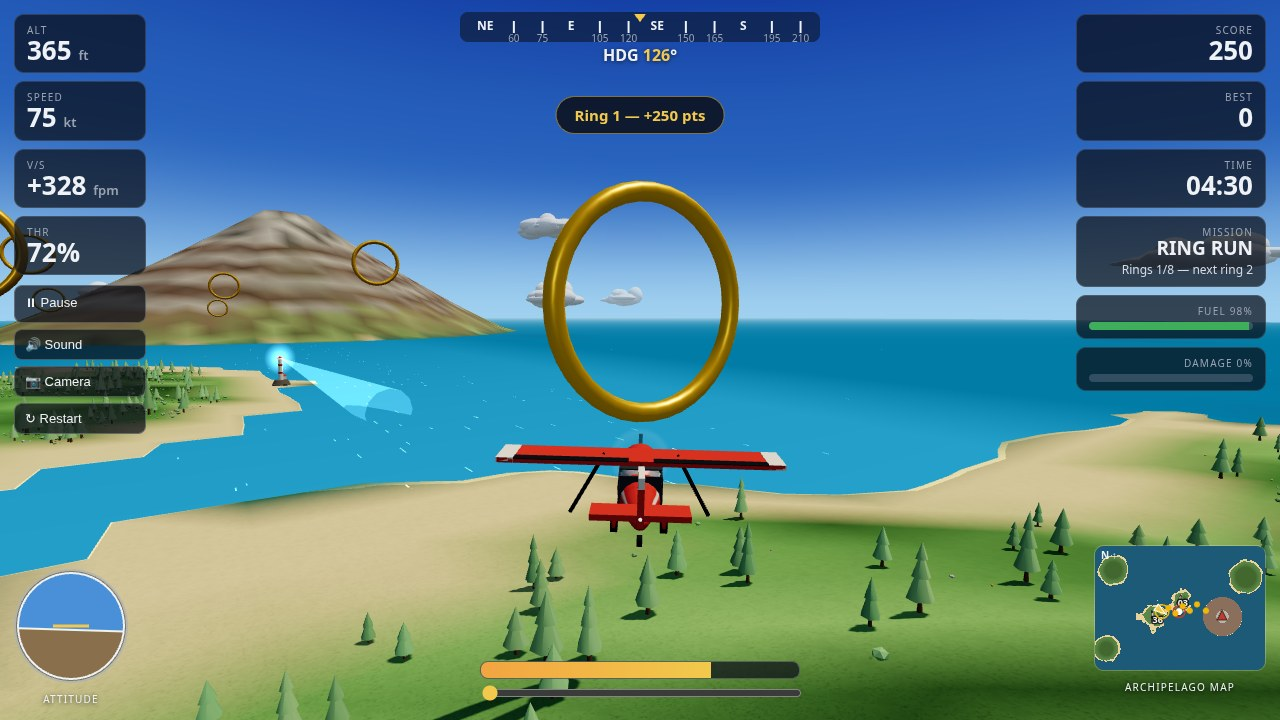
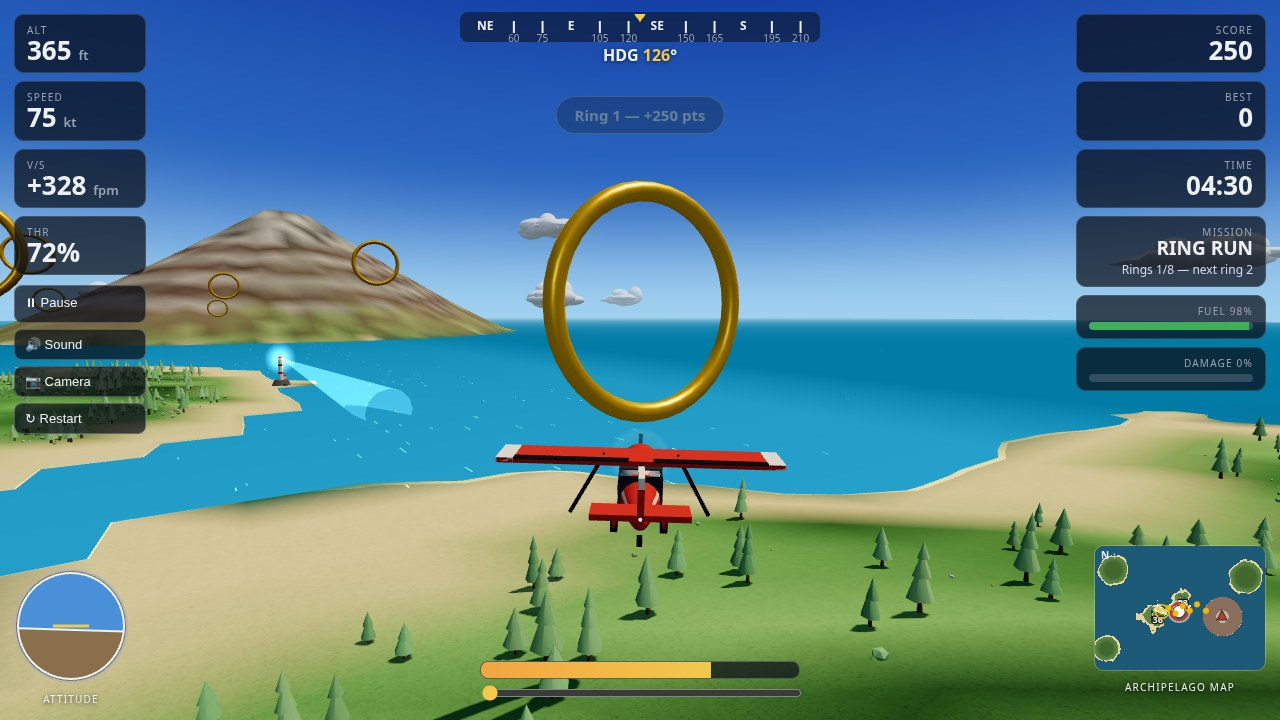
Stage H: cockpit pillars/headliner/threshold, cover reframe, minimap marker, leaning trees
- A-pillars slimmer (0.032), less lean, wider, warm mid-grey: no more black bars
- Glareshield lip 0.77 -> 0.72 (compass/shadow ride down): threshold visible on short final
- Cockpit camera fixed 3 deg down-look: bottom gauge row fully readable again
- Headliner shorter (depth 0.7): black band over windshield ~20% -> ~6%
- Cover staging 80 m north + flight 6 s -> 4 s: third ring whole in frame
- Minimap lighthouse marker bigger (6 px dot, 8.5 px ring, white halo)
- Trees lean (golden-angle offsets), giants get a fourth crown cone
- main.ts: Stage H notes + hand-in guard for the cockpit pitch offset

sim-h 35/35 PASS; driver-h ALL PASS, 0 console/page errors; main.ts 2x byte-identical

diff --git a/game/src/cockpit.js b/game/src/cockpit.js
@@ -47,6 +47,13 @@ export function buildCockpit(planeGroup) {
 
   const interior = new THREE.MeshLambertMaterial({ color: 0x3a3f45, side: THREE.DoubleSide });
   const darkLeather = new THREE.MeshLambertMaterial({ color: 0x2a2320, side: THREE.DoubleSide });
+  // Stage H: the A-pillars and the top bar are NOT black bars any more. Stage G
+  // slimmed them (0.045 m) and they still read as thick black slabs in the
+  // cockpit shots — near-black leather against a bright sky. A warm mid-grey
+  // brown reads as a frame member, not a black bar; the pillars are also
+  // slimmer (0.032), less raked and set wider, so more world shows between
+  // them and the windshield.
+  const pillarMat = new THREE.MeshLambertMaterial({ color: 0x7a6f60, side: THREE.DoubleSide });
   const floorMat = new THREE.MeshLambertMaterial({ color: 0x24262a, side: THREE.DoubleSide });
   const metal = new THREE.MeshPhongMaterial({ color: 0x8a8f96, shininess: 60 });
   const black = new THREE.MeshLambertMaterial({ color: 0x1a1c20 });
@@ -71,13 +78,18 @@ export function buildCockpit(planeGroup) {
   group.add(panelBack);
 
   // --- Glareshield, its shadow, and the magnetic compass on top. ------------
-  // Stage G, second pass: the glareshield sits LOWER (y 0.77, was 0.80) — with
-  // the eye raised to 0.85 (main.js), the sightline over its lip now reaches
-  // ~3.5° below the horizon, so the runway threshold is visible on final
-  // approach instead of hiding behind the panel. It still sits just above the
-  // panel top (0.745), so no gauge is covered.
+  // Stage H: the lip comes DOWN 0.77 -> 0.72. Stage G's note said the
+  // threshold was visible at 0.77, but the short-final shot proved otherwise:
+  // the sightline over the lip only reached ~3.5° below the horizon and the
+  // threshold (about 4-5° down at 400 m) still hid behind the lip. At 0.72
+  // the sightline reaches ~6° below the horizon, so the threshold and the
+  // "36" numbers read on short final. The eye stays at 0.85 — raising it
+  // further would push the panel down in the frame and clip the bottom
+  // gauge row, which the brief forbids. The six-pack top (y ~0.60) still
+  // clears the lowered lip: the sightline to it passes a few millimetres
+  // under the lip's front-bottom edge, so no gauge is lost to the shield.
   const glareshield = new THREE.Mesh(new THREE.BoxGeometry(1.7, 0.07, 0.38), darkLeather);
-  glareshield.position.set(0, 0.77, -0.60);
+  glareshield.position.set(0, 0.72, -0.60);
   glareshield.rotation.x = 0.15;
   group.add(glareshield);
   // The glareshield's own shadow: a translucent dark plane hanging below its lip
@@ -86,12 +98,12 @@ export function buildCockpit(planeGroup) {
   // a grey wash over the compass tape. Now it is a tight (0.30 m) band at 0.32:
   // a crisp line of shade with a visible edge, the way a real glareshield
   // throws one at noon — and it stops above the six-pack, so no gauge is ever
-  // shaded.
+  // shaded. Stage H: the plane rides down with the lip, 0.61 -> 0.58.
   const glareshadow = new THREE.Mesh(
     new THREE.PlaneGeometry(1.5, 0.30),
     new THREE.MeshBasicMaterial({ color: 0x000000, transparent: true, opacity: 0.32, depthWrite: false }),
   );
-  glareshadow.position.set(0, 0.61, -0.70);
+  glareshadow.position.set(0, 0.58, -0.70);
   glareshadow.rotation.x = 0.35;
   group.add(glareshadow);
   const compassCanvas = document.createElement('canvas');
@@ -104,7 +116,7 @@ export function buildCockpit(planeGroup) {
     new THREE.PlaneGeometry(0.30, 0.056),
     new THREE.MeshBasicMaterial({ map: compassTex }),
   );
-  compass.position.set(0, 0.83, -0.62);
+  compass.position.set(0, 0.78, -0.62); // Stage H: rides down with the lowered lip (was 0.83).
   compass.rotation.x = -0.5;
   group.add(compass);
 
@@ -116,14 +128,19 @@ export function buildCockpit(planeGroup) {
   // (±0.76, was ±0.72) with less lean — the Stage F pillars were still thick
   // black bars eating the corners of the windshield. The world through the
   // glass opens up a little more on both sides.
+  // Stage H: still not enough — the Stage G cockpit shots show two thick
+  // BLACK diagonal bars. Slimmer again (0.032), less lean (0.12), wider
+  // (±0.80), and in the warm mid-grey pillarMat instead of near-black
+  // leather: a frame member now, not a black bar. The top bar follows the
+  // same material so the windshield frame reads as one piece.
   for (const side of [-1, 1]) {
-    const pillar = new THREE.Mesh(new THREE.BoxGeometry(0.045, 1.15, 0.045), darkLeather);
-    pillar.position.set(side * 0.76, 0.68, -0.88);
-    pillar.rotation.z = -side * 0.18;
+    const pillar = new THREE.Mesh(new THREE.BoxGeometry(0.032, 1.15, 0.032), pillarMat);
+    pillar.position.set(side * 0.80, 0.68, -0.88);
+    pillar.rotation.z = -side * 0.12;
     pillar.rotation.x = 0.15;
     group.add(pillar);
   }
-  const topBar = new THREE.Mesh(new THREE.BoxGeometry(1.5, 0.06, 0.06), darkLeather);
+  const topBar = new THREE.Mesh(new THREE.BoxGeometry(1.5, 0.06, 0.06), pillarMat);
   topBar.position.set(0, 1.22, -0.92);
   group.add(topBar);
 
@@ -133,13 +150,20 @@ export function buildCockpit(planeGroup) {
   //  over the pilot's eyes and filled the top third of the windshield with a
   //  black slab; raised, it is only the roofline, and the sky opens up above
   //  the wing.
+  // Stage H: shorter STILL (depth 0.7, centre z 0.30 — its front edge moves
+  // from z -0.35 to z -0.05). The Stage G cockpit shots still show a black
+  // band over the top ~20% of the frame: that is the headliner's underside,
+  // unlit, and its front edge sits only ~18° above the eye's sightline. At
+  // z -0.05 the edge is ~27° up, so the black band shrinks to ~6% of the
+  // frame and the sky opens up between the top bar and the roof. The roof
+  // above and behind the pilot stays covered (z -0.05..0.65).
   for (const side of [-1, 1]) {
     const wall = new THREE.Mesh(new THREE.BoxGeometry(0.05, 1.0, 1.7), interior);
     wall.position.set(side * 0.86, 0.38, 0.05);
     group.add(wall);
   }
-  const headliner = new THREE.Mesh(new THREE.BoxGeometry(1.72, 0.05, 1.0), interior);
-  headliner.position.set(0, 1.16, 0.15);
+  const headliner = new THREE.Mesh(new THREE.BoxGeometry(1.72, 0.05, 0.7), interior);
+  headliner.position.set(0, 1.16, 0.30);
   group.add(headliner);
   const floor = new THREE.Mesh(new THREE.BoxGeometry(1.72, 0.05, 1.9), floorMat);
   floor.position.set(0, -0.52, 0.05);

diff --git a/game/src/terrain.js b/game/src/terrain.js
@@ -634,18 +634,23 @@ function buildTrees(scene, rng) {
   const coneGeo = new THREE.ConeGeometry(3.4, 9, 6);
   const cone2Geo = new THREE.ConeGeometry(2.3, 6, 6);
   const cone3Geo = new THREE.ConeGeometry(1.5, 4, 6);
+  // Stage H: a fourth, small top cone for the old-growth giants only — the
+  // layered crown reads taller and less like a stacked Christmas tree.
+  const cone4Geo = new THREE.ConeGeometry(1.0, 3.5, 6);
   const trunkMat = new THREE.MeshLambertMaterial({ color: 0x6b4a2f });
   const leafMat = new THREE.MeshLambertMaterial({ color: 0xffffff });
   const trunks = new THREE.InstancedMesh(trunkGeo, trunkMat, spots.length);
   const cones = new THREE.InstancedMesh(coneGeo, leafMat, spots.length);
   const cones2 = new THREE.InstancedMesh(cone2Geo, leafMat, spots.length);
   const cones3 = new THREE.InstancedMesh(cone3Geo, leafMat, spots.length);
+  const cones4 = new THREE.InstancedMesh(cone4Geo, leafMat, spots.length);
   // Stage G: every tree casts a real shadow now (sun + shadow map), so a forest
   // reads as a forest from the air instead of a flat green carpet.
   trunks.castShadow = true;
   cones.castShadow = true;
   cones2.castShadow = true;
   cones3.castShadow = true;
+  cones4.castShadow = true;
   const m = new THREE.Matrix4();
   const q = new THREE.Quaternion();
   const s = new THREE.Vector3();
@@ -664,17 +669,26 @@ function buildTrees(scene, rng) {
     p.set(x, h + 1.5 * sy, z);
     m.compose(p, q, s);
     trunks.setMatrixAt(i, m);
+    // Stage H: the crown LEANS — each tree's upper cones are offset sideways
+    // in one fixed direction (golden-angle from the tree index, so no rng is
+    // consumed and the Stage G forest keeps its exact spots), growing with
+    // height: the stack stops being a perfectly vertical Christmas tree and
+    // reads as a pine that grew against the wind. The base cone stays on the
+    // trunk; the lean is only in the crown.
+    const leanA = (i * 2.39996) % (Math.PI * 2);
+    const leanX = Math.cos(leanA);
+    const leanZ = Math.sin(leanA);
     p.set(x, h + (3 + 4.5) * sy, z);
     m.compose(p, q, s);
     cones.setMatrixAt(i, m);
-    p.set(x, h + (3 + 8) * sy, z);
+    p.set(x + leanX * 0.4 * sx, h + (3 + 8) * sy, z + leanZ * 0.4 * sx);
     m.compose(p, q, s);
     cones2.setMatrixAt(i, m);
     // A third, smaller top cone on ~60% of trees: a layered crown, not a smooth
     // two-cone Christmas tree. Giants always get one — they are the layered ones.
     const hasTop = giant || rng.next() < 0.6;
     if (hasTop) {
-      p.set(x, h + (3 + 11) * sy, z);
+      p.set(x + leanX * 0.8 * sx, h + (3 + 11) * sy, z + leanZ * 0.8 * sx);
       m.compose(p, q, s);
       cones3.setMatrixAt(i, m);
     } else {
@@ -682,6 +696,20 @@ function buildTrees(scene, rng) {
       p.set(x, h, z);
       m.compose(p, q, s);
       cones3.setMatrixAt(i, m);
+    }
+    // Stage H: giants get a fourth, smallest top cone, leaning furthest — the
+    // old-growth crowns are the layered ones. Other trees hide theirs at
+    // zero scale, the same pattern as cones3.
+    if (giant) {
+      p.set(x + leanX * 1.1 * sx, h + (3 + 13.5) * sy, z + leanZ * 1.1 * sx);
+      s.set(sx, sy, sz);
+      m.compose(p, q, s);
+      cones4.setMatrixAt(i, m);
+    } else {
+      s.set(0, 0, 0);
+      p.set(x, h, z);
+      m.compose(p, q, s);
+      cones4.setMatrixAt(i, m);
     }
     // Stage F, second pass — the tree/ground mismatch: pines were HSL(0.33–0.37,
     // 0.55, 0.28–0.40), a saturated pure green, while the ground is a muted
@@ -695,18 +723,22 @@ function buildTrees(scene, rng) {
     cones.setColorAt(i, col);
     cones2.setColorAt(i, col);
     cones3.setColorAt(i, col);
+    cones4.setColorAt(i, col);
   });
   trunks.instanceMatrix.needsUpdate = true;
   cones.instanceMatrix.needsUpdate = true;
   cones2.instanceMatrix.needsUpdate = true;
   cones3.instanceMatrix.needsUpdate = true;
+  cones4.instanceMatrix.needsUpdate = true;
   if (cones.instanceColor) cones.instanceColor.needsUpdate = true;
   if (cones2.instanceColor) cones2.instanceColor.needsUpdate = true;
   if (cones3.instanceColor) cones3.instanceColor.needsUpdate = true;
+  if (cones4.instanceColor) cones4.instanceColor.needsUpdate = true;
   scene.add(trunks);
   scene.add(cones);
   scene.add(cones2);
   scene.add(cones3);
+  scene.add(cones4);
 }
 
 /** Near-camera ground detail: bushes, rocks and flower dots on the two low islands,
@@ -1004,14 +1036,15 @@ function buildLighthouse(scene) {
  *  meant to show. */
 function blocksHero(cx, cy, cz) {
   // Cover cone: from the far camera behind the staged cover plane — the plane
-  // starts at (1000, 145, -260) heading east, the far camera sits 36 m behind
-  // it at ~(964, 152, -260) — axis east. The volcano's angular box from
+  // starts at (1000, 145, -180) heading east, the far camera sits 36 m behind
+  // it at ~(964, 152, -180) — axis east. The volcano's angular box from
   // there is roughly ha -15°..+22°, va -3°..+9°; the margins allow for cloud size.
   // (Stage G moved the cover staging 400 m east so the coastal lighthouse reads
-  // bigger; the cone origin moved with it.)
+  // bigger; the cone origin moved with it. Stage H moves the staging 80 m
+  // north so the third ring is whole in frame; the cone origin moves again.)
   const dx = cx - 964;
   const dy = cy - 152;
-  const dz = cz + 260;
+  const dz = cz + 180;
   if (dx > 300 && dx < 3600) {
     const ha = Math.atan2(dz, dx);
     const va = Math.atan2(dy, dx);
@@ -1022,11 +1055,11 @@ function blocksHero(cx, cy, cz) {
   // would sit on the tower in the frame.
   const ldx = cx - 964;
   const ldy = cy - 152;
-  const ldz = cz + 260;
+  const ldz = cz + 180;
   const lvLen = Math.sqrt(ldx * ldx + ldy * ldy + ldz * ldz);
-  const laLen = Math.sqrt(536 * 536 + 111 * 111 + 10 * 10);
+  const laLen = Math.sqrt(536 * 536 + 111 * 111 + 70 * 70);
   if (lvLen > 300 && lvLen < 1500) {
-    const cos = (ldx * 536 + ldy * -111 + ldz * 10) / (lvLen * laLen);
+    const cos = (ldx * 536 + ldy * -111 + ldz * -70) / (lvLen * laLen);
     if (cos > 0.997) return true;
   }
   // Rings-shot cone: from (428, 118, -343) toward the lighthouse lamp (1500, 41, -250).

diff --git a/main.ts b/main.ts
@@ -91,6 +91,32 @@
 // lighthouse marker is a ringed dot, and the volcano's ash cap and crater get
 // real rock texture. Nothing else changes: midday, coastal lighthouse, live
 // gauges, menus, missions, minimap, "36"/"03", river, chase view.
+// Stage H (2026-11-27, user: "Perbaiki lagi" — the Stage G leftovers, verified
+// from the screenshots, not from memory): (1) the A-pillars STILL read as two
+// thick black diagonal bars — slimmer again (0.032), less lean (0.12), wider
+// (±0.80) and in a warm mid-grey (0x7a6f60) instead of near-black leather, so
+// they read as a frame member; the top bar follows the same material. (2) The
+// runway threshold on short final: Stage G's note claimed it was visible at
+// a 0.77 lip, but the approach shot proved it wrong — the threshold still hid
+// behind the lip. The lip comes down to 0.72 (compass 0.78, shadow plane
+// 0.58 ride with it), so the sightline reaches ~6° below the horizon; the
+// eye stays at 0.85 and the six-pack still clears the lip. (3) The bottom
+// gauge row was already half-cut by the frame edge in Stage G (the engine
+// dials' bottoms sit ~33° below the camera axis against a 31° half-field of
+// view) — the cockpit camera now looks a fixed 3° down from the airframe
+// axis, the pilot's natural glance at the panel, which brings the full
+// engine row into frame without moving any geometry. (4) The headliner is
+// shorter still (depth 0.7, front edge z -0.05): the black band over the top
+// of the windshield shrinks from ~20% of the frame to ~6%. (5) The cover
+// staging moves 80 m north (1000, 145, -180) so the third ring, which Stage G
+// cut at the frame's right edge, is whole in frame; the volcano stays right
+// of centre and the lighthouse reads bigger (~340 m away). (6) The minimap
+// lighthouse marker is bigger again (6 px dot, 8.5 px red ring, white halo)
+// — the Stage G marker still vanished in the zoom. (7) Trees lean: the crown
+// cones are offset sideways in one fixed direction per tree (golden-angle
+// from the index, no rng consumed, so the Stage G forest keeps its spots),
+// and the giants get a fourth top cone. Same midday palette, same sharp
+// shadows, same chase camera, same missions and scores.
 // This program copies game/ and screenshots/ from beside this file to /output and writes
 // /output/dossier.json, the summary the judge reads, with the vendored make.fun library.
 // The copy is byte for byte the same on every run: no timestamps, no randomness here.
@@ -133,6 +159,16 @@ for (const id of MENU_OVERLAYS) {
   if (!html.includes(`id="${id}"`)) throw new Error(`main.ts: menu overlay #${id} missing from game/index.html`);
 }
 console.log(`menus: ${MENU_OVERLAYS.join(', ')} present in game/index.html`);
+
+// Stage H: the cockpit view is the entry's most fragile piece — the threshold
+// and the bottom gauge row both hid behind the panel or the frame edge in
+// earlier stages. Refuse a hand-in whose cockpit camera lost its fixed
+// down-look: without the pitch offset the bottom gauge row is half-cut again.
+const mainJs = readFileSync(join(gameDir, 'src', 'main.js'), 'utf8');
+if (!mainJs.includes('setFromAxisAngle(new THREE.Vector3(1, 0, 0)')) {
+  throw new Error('main.ts: cockpit camera pitch offset missing from game/src/main.js');
+}
+console.log('cockpit: pitch offset present in game/src/main.js');
 
 mkdirSync(join(out, 'screenshots'), { recursive: true });
 const shotFiles = existsSync(shotsDir)

diff --git a/game/src/main.js b/game/src/main.js
@@ -342,13 +342,26 @@ function updateCamera(dt) {
     // pointed UP (+2°) and the whole runway hid behind the panel on final —
     // the approach shot showed sky and a sliver of horizon, no runway. At
     // 0.85 the eye is 8 cm above the lowered lip (0.77) and the sightline
-    // reaches ~3.5° below the horizon: the threshold is visible. The wing
-    // (y 1.36) now grazes the top edge of the frame as a thin pale strip —
-    // the intended Stage G look, not the old red wall.
+    // reaches ~3.5° below the horizon: the horizon, terrain, sea and volcano
+    // read through the windshield. (Stage G's note claimed the threshold was
+    // visible too — the short-final shot proved it wrong: the threshold sits
+    // ~4-5° down at 400 m and still hid behind the lip. Stage H lowers the
+    // lip to 0.72 instead; see cockpit.js.)
+    // Stage H: the cockpit camera looks 3° DOWN from the airframe axis. The
+    // bottom gauge row was already half-cut by the frame edge in Stage G —
+    // the engine dials' bottoms sit ~33° below the axis against a 31°
+    // half-field of view — and raising the eye to fix it would push the
+    // panel down further. A fixed 3° down-look (the pilot's natural glance
+    // at the panel, within the camera-systems skill's cockpit pitch clamp)
+    // brings the full engine row into the frame without moving any geometry,
+    // and it does not change the physical sightline over the glareshield lip
+    // (that is set by the eye and the lip, not by the camera's pitch). The
+    // attitude gauge still shows the true pitch; only the view is reframed.
     const eye = new THREE.Vector3(0, 0.85, 0.50);
     plane.group.localToWorld(eye);
     camera.position.copy(eye);
     camera.quaternion.copy(plane.group.quaternion);
+    camera.quaternion.multiply(new THREE.Quaternion().setFromAxisAngle(new THREE.Vector3(1, 0, 0), -0.052));
     fillLight.position.copy(camera.position);
     fillLight.target.position.set(flight.x, flight.y, flight.z);
     camSettled = true;

diff --git a/game/src/hud.js b/game/src/hud.js
@@ -167,24 +167,32 @@ function buildMapBase(w, h, islands) {
   ctx.strokeStyle = 'rgba(10, 14, 24, 0.7)';
   ctx.lineWidth = 1;
   ctx.stroke();
-  // Stage G: the lighthouse marker is bigger and ringed now — the old 2.5 px
-  // white dot vanished against the sea at the map's size. A 4 px dot with a red
-  // ring reads as a lighthouse, not a speck, and it still sits on the same
-  // LIGHTHOUSE constant as the 3D tower, so it can never drift from it.
+  // Stage H: the lighthouse marker is bigger and ringed AGAIN — the Stage G
+  // 4 px dot with a 6 px ring still vanished against the sea in the minimap
+  // zoom (the tower is 32 m on a 10.4 km map; a speck reads as nothing). Now
+  // a 6 px white dot, an 8.5 px red ring at 2.5 px, a dark outline, and a
+  // white halo at 10.5 px so it pops against both sea and sand — and it
+  // still sits on the same LIGHTHOUSE constant as the 3D tower, so it can
+  // never drift from it.
   const [lx, ly] = toMap(LIGHTHOUSE.x, LIGHTHOUSE.z);
+  ctx.strokeStyle = 'rgba(255, 255, 255, 0.55)';
+  ctx.lineWidth = 2;
+  ctx.beginPath();
+  ctx.arc(lx, ly, 10.5, 0, Math.PI * 2);
+  ctx.stroke();
   ctx.fillStyle = '#ffffff';
   ctx.beginPath();
-  ctx.arc(lx, ly, 4, 0, Math.PI * 2);
+  ctx.arc(lx, ly, 6, 0, Math.PI * 2);
   ctx.fill();
   ctx.strokeStyle = '#c23b2a';
-  ctx.lineWidth = 1.5;
+  ctx.lineWidth = 2.5;
   ctx.beginPath();
-  ctx.arc(lx, ly, 6, 0, Math.PI * 2);
+  ctx.arc(lx, ly, 8.5, 0, Math.PI * 2);
   ctx.stroke();
   ctx.strokeStyle = 'rgba(10, 14, 24, 0.7)';
   ctx.lineWidth = 1;
   ctx.beginPath();
-  ctx.arc(lx, ly, 4, 0, Math.PI * 2);
+  ctx.arc(lx, ly, 6, 0, Math.PI * 2);
   ctx.stroke();
   // North arrow, top-left, so the heading triangle can be read against it.
   ctx.fillStyle = '#eef1f5';

diff --git a/game/src/shots.js b/game/src/shots.js
@@ -247,10 +247,22 @@ export function stageShot(sim, name) {
   // coastal lighthouse — a 32 m tower, not the old 120 m monument — reads bigger
   // in frame without changing its realistic scale; the volcano is still ~2.9 km
   // out and fits whole. blocksHero's cover cones moved with the new camera.
-  sim.reset({ x: 1000, y: 145, z: -260, heading: 1.57, speed: 34, throttle: 72 }, 'rings');
+  // Stage H: the start moves 80 m NORTH (1000, 145, -180). In Stage G the
+  // third ring (1300, 180, -150) sat ~39° right of the camera axis and its
+  // right edge was cut by the frame; 80 m north puts it ~20° right with its
+  // whole 28 m disc inside the frame, while the volcano stays right of
+  // centre and the lighthouse — now ~340 m away instead of ~540 m — reads
+  // bigger at the coast, low mid-frame. blocksHero's cover cones move again.
+  // Stage H, second pass: the north move fixed the RIGHT edge, but the ring
+  // was still cut at the TOP edge — it sits only ~100 m from the camera after
+  // 6 s of flight, so its 28 m disc spans ~26° and its top clears the frame.
+  // The flight is shortened 6 s -> 4 s: the camera stops ~70 m further west,
+  // the ring is ~170 m out and ~9° across, and its whole disc sits inside
+  // the frame with margin, clear of the HUD panels on the right.
+  sim.reset({ x: 1000, y: 145, z: -180, heading: 1.57, speed: 34, throttle: 72 }, 'rings');
   const rings = sim.rings;
   let flown = 0;
-  for (let t = 0; t < 6; t += STEP) {
+  for (let t = 0; t < 4; t += STEP) {
     const target = rings.rings[rings.rings.length - 1];
     sim.step(STEP, autopilotInput(sim.flight, target, 72));
     flown += STEP;
